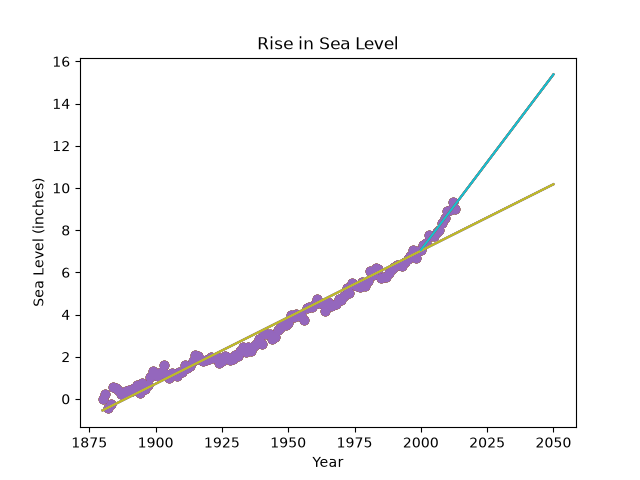
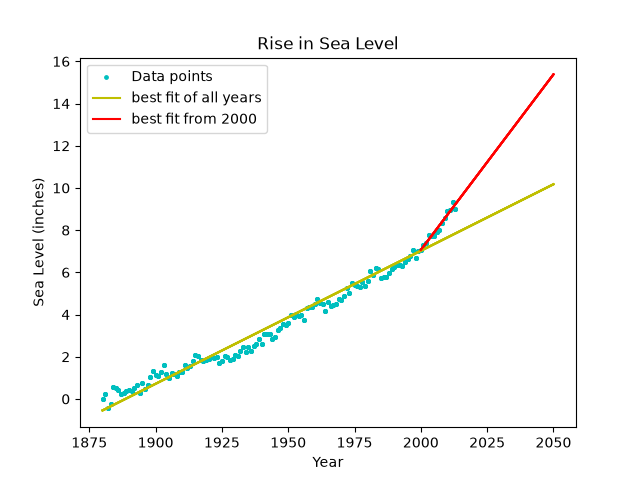
clear solution

diff --git a/sea_level_predictor.py b/sea_level_predictor.py
@@ -5,39 +5,31 @@ from scipy.stats import linregress
 def draw_plot():
     # Read data from file
     df = pd.read_csv('epa-sea-level.csv')
-    # print(df.head())
-    # print(df.tail())
-    # print(df.info())
-    # print(df.info())
-    # print(df.loc[df.shape[0] -1 , 'Year'])
 
-    # افهم البينات
+
     
     # Create scatter plot
-    plt.scatter(x= df['Year'], y=df['CSIRO Adjusted Sea Level'])
+    plt.scatter(x= df['Year'], y=df['CSIRO Adjusted Sea Level'], c='c' , s=6)
 
     # Create first line of best fit
-    # 1st best fit
+
     list_years = [i for i in range(1880, 2051)]
     fit1 = linregress(df['Year'], df['CSIRO Adjusted Sea Level'])
-    # print(fit1.intercept, '_' * 20, fit1.slope)
     y_pred1 = fit1.intercept + fit1.slope * pd.Series(list_years)
+    plt.plot(list_years, y_pred1, c='y')
+
     # Create second line of best fit
-    plt.plot(list_years, y_pred1)
-
-
-    # 2nd best fit
     recent_years = [i for i in range(2000, 2051)]
     loc_of_2000 = (pd.Index(df.Year).get_loc(2000))
-    # print([i for i  in range(10)].index(4))
     slope, intercept,_,_,_ = linregress(df.Year[loc_of_2000 : ] , df['CSIRO Adjusted Sea Level'][ loc_of_2000: ])
-    # print(slope, intercept)
     y_pred2 = intercept + slope * pd.Series(recent_years)
-    plt.plot(recent_years, y_pred2)
+    plt.plot(recent_years, y_pred2, color='red')
+    
     # Add labels and title
     plt.xlabel('Year')
     plt.ylabel('Sea Level (inches)')
     plt.title('Rise in Sea Level')
+    plt.legend(['Data points', 'best fit of all years', 'best fit from 2000'])
     
     # Save plot and return data for testing (DO NOT MODIFY)
     plt.savefig('sea_level_plot.png')
